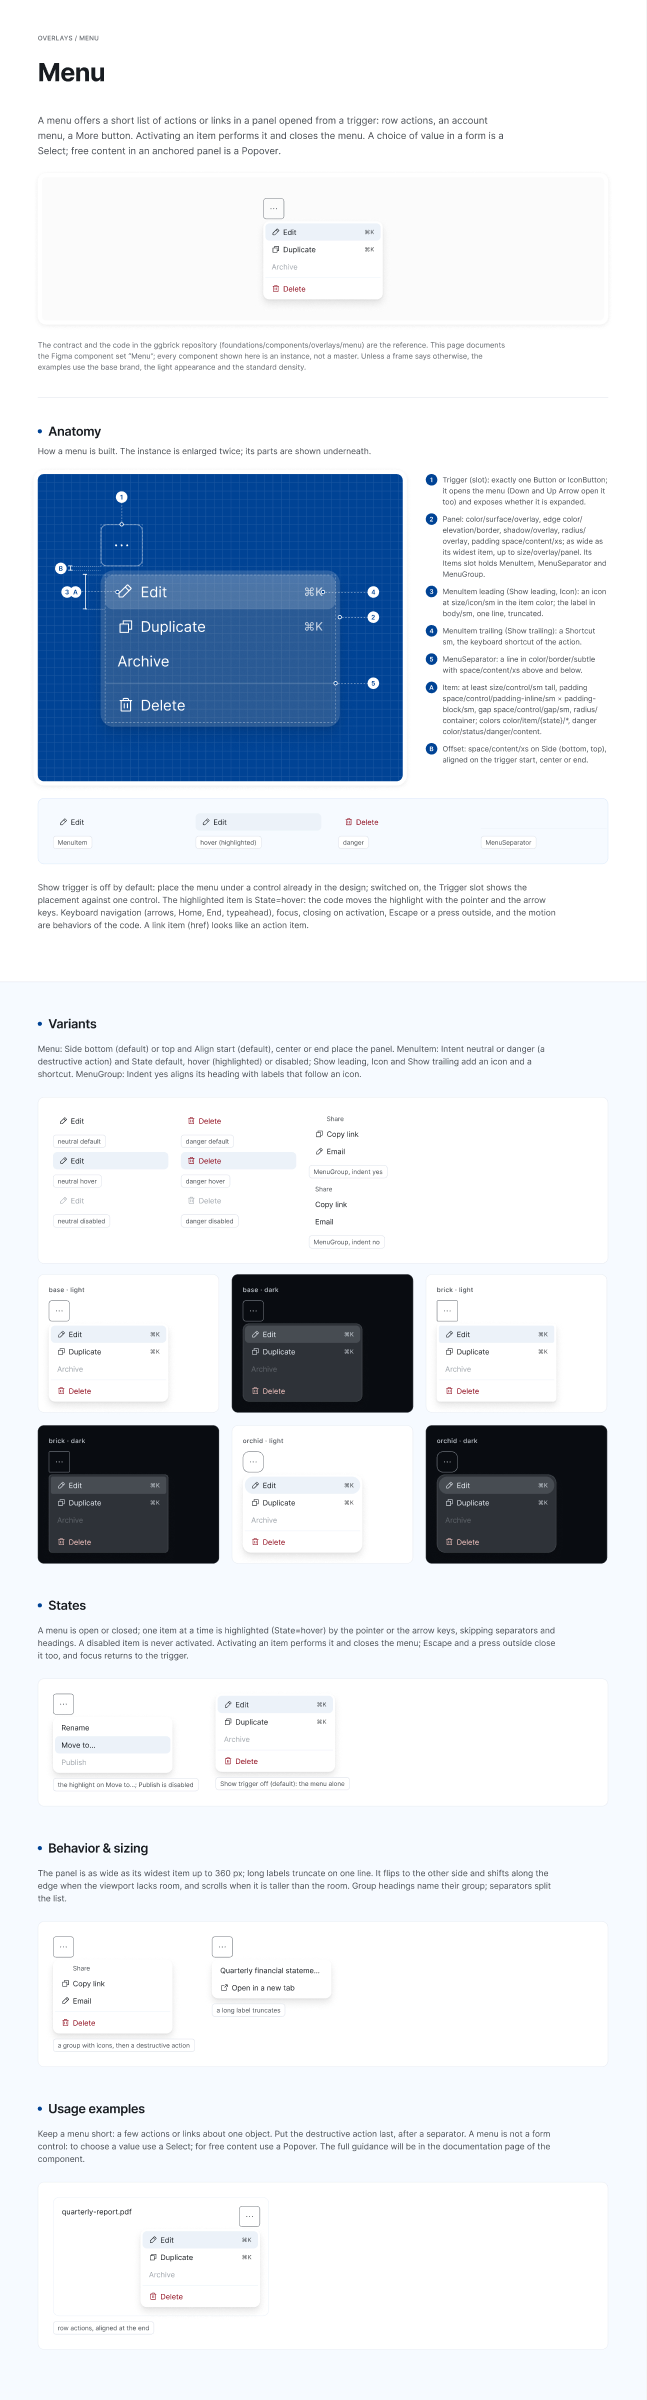
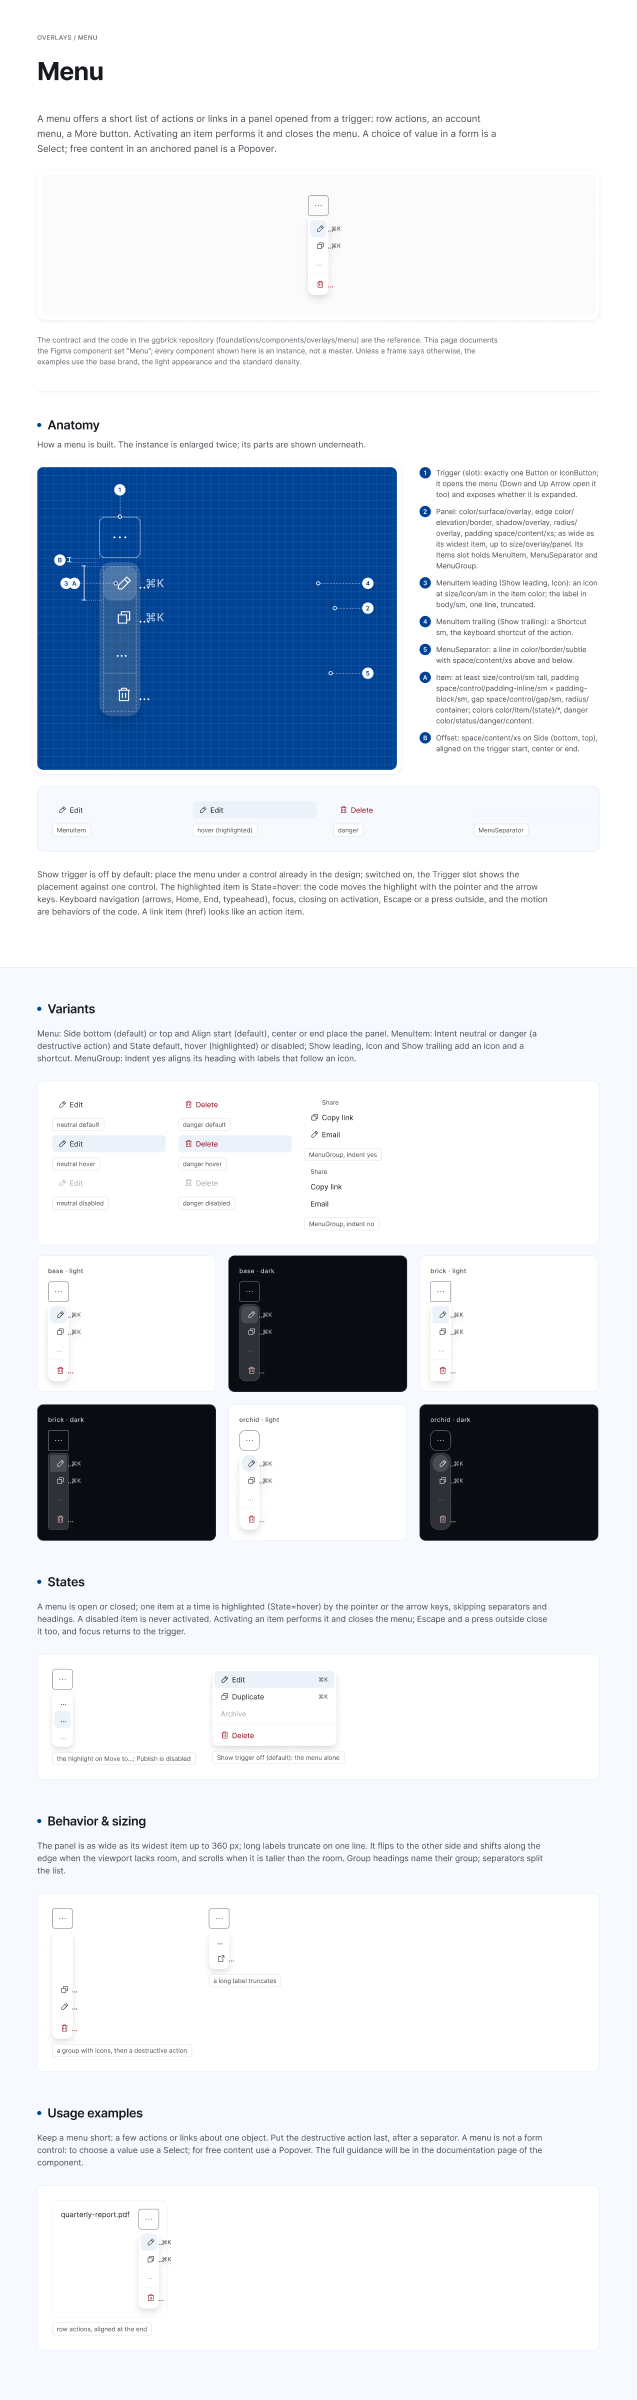
Figma: Menu width fixed (240 px, resizable)
Reported by the user: the Menu was 32 px wide once placed. Its items
filled a panel that hugged them, so it collapsed to its padding. The six
variants are now 240 px wide, the Panel and the Items slot fill them.
Parity hashes unchanged; 18 new checks that the items fill the panel.

Claude-Session: https://claude.ai/code/session_0156c543GZBnpgBmqmSNfDLB

diff --git a/authoring/adapters/figma/menu-master.plugin.js b/authoring/adapters/figma/menu-master.plugin.js
@@ -1,7 +1,8 @@
 // Menu master builder (use_figma body), 2026-11-03.
 // 2026-11-04 (user review of the Figma parity): the boolean Show trigger of Menu, off by default, shows its Trigger slot;
 // the public children are named Menu/Item, Menu/Separator and Menu/Group, so that the Assets panel groups them under
-// Menu (renamed in place; user decision at the gate, 2026-11-04). Their instance layers keep the code names.
+// Menu (renamed in place; user decision at the gate, 2026-11-04). Their instance layers keep the code names. The menu is
+// 240 px wide by default and resizable (it collapsed to 32 px, reported by the user on 2026-11-04; fixed in place).
 // On the Overlays library page (407:119), section Menu: MenuItem (Intent neutral, danger × State default, hover,
 // disabled; 6 variants), MenuSeparator, MenuGroup (Indent yes, no) and Menu (Side × Align, 6 variants).
 // MenuItem: a horizontal auto layout 240 wide, min height size/control/sm, padding space/control/padding-inline/sm ×
@@ -308,9 +309,14 @@ for (const side of ['bottom', 'top'])
     it('Archive', null, false, 'neutral', 'disabled');
     add(sep.createInstance());
     it('Delete', TRASH, false, 'danger');
-    s.counterAxisSizingMode = 'FIXED';
-    s.resize(220, s.height);
-    s.counterAxisSizingMode = 'AUTO';
+    // The items fill the panel, so the panel cannot hug them (a hugging frame whose children all fill collapses to
+    // its padding: the Menu was 32 px wide until the user reported it, 2026-11-04). The menu is 240 px wide by default,
+    // resizable on the instance; the Panel and the Items slot fill it.
+    c.counterAxisSizingMode = 'FIXED';
+    c.resize(240, c.height);
+    c.primaryAxisSizingMode = 'AUTO';
+    s.parent.layoutSizingHorizontal = 'FILL';
+    s.layoutSizingHorizontal = 'FILL';
     menus.push(c);
   }
 const menuSet = figma.combineAsVariants(menus, section);

diff --git a/authoring/adapters/figma/menu-parity.plugin.js b/authoring/adapters/figma/menu-parity.plugin.js
@@ -62,6 +62,10 @@ for (const b of ['base', 'brick', 'orchid'])
       const [edit, dup, arch, del] = panel
         .findOne((n) => n.type === 'SLOT')
         .children.filter((n) => n.name === 'MenuItem');
+      // The items fill the panel of a 240 px menu (it collapsed to 32 px until 2026-11-04).
+      checks++;
+      if (Math.abs(edit.width - (panel.width - 2 * (await res(panel, 'paddingLeft')))) > 0.51 || panel.width < 200)
+        bad.push(`${ctx} item width ${edit.width} in panel ${panel.width}`);
       const line = async (k, n) =>
         `${k}=${[await paint(n), await paint(n.findChild((x) => x.name === 'Label')), num(n.height, 1), '', ''].join(',')}`;
       const L = [

diff --git a/foundations/components/overlays/menu/figma-spec.md b/foundations/components/overlays/menu/figma-spec.md
@@ -6,7 +6,7 @@
 - Masters: **Menu** ([`437:795`](https://www.figma.com/design/TDPqojP4KvbWJlKSYc4zKC/GG.Bricks---Design-system?node-id=437-795)), 6 variants; **Menu/Item** (`437:343`, the code's MenuItem), 6 variants; **Menu/Separator** (`437:344`, MenuSeparator); **Menu/Group** (`437:401`, MenuGroup), 2 variants. Built by `authoring/adapters/figma/menu-master.plugin.js`.
 - Specification frame: **Menu — Specification** ([`463:533`](https://www.figma.com/design/TDPqojP4KvbWJlKSYc4zKC/GG.Bricks---Design-system?node-id=463-533)); built by `menu-spec.plugin.js` on `spec-lib.plugin.js`.
 - Reproduces: contract `foundations/components/overlays/menu/contract.json` (approved 2026-11-03 with the group alignment amendment) and the implementation approved on 2026-11-03 (`packages/svelte/src/components/menu`).
-- Node IDs: `reports/components/menu/figma/ledger.json`. Parity: `reports/components/menu/figma/parity.json` (60 records, 0 failures) plus 270 extra checks. Screenshots: `master-set.png`, `specification.png`, `blueprint-anatomy.png`.
+- Node IDs: `reports/components/menu/figma/ledger.json`. Parity: `reports/components/menu/figma/parity.json` (60 records, 0 failures) plus 288 extra checks. Screenshots: `master-set.png`, `specification.png`, `blueprint-anatomy.png`.
 - The library is not published (publication needs explicit authorization).
 
 ## Mapping from the contract
@@ -25,6 +25,8 @@
 | `open`, keyboard, typeahead, focus, motion, layer | Not drawn: behaviors of the code                                                                                          |
 
 ## Construction notes
+
+- **Width** (fixed on 2026-11-04 after a user report): the menu is 240 px wide by default and resizable on the instance; the Panel and the Items slot fill it, and the items fill the panel. Figma cannot make filling children as wide as the widest of them (a hugging panel whose items all fill collapses to its padding), so the code's rule, as wide as the widest item up to size.overlay.panel, becomes a width the designer sets.
 
 - **The trigger is optional** (user review of the Figma parity, 2026-11-04): the boolean **Show trigger**, off by default, shows the Trigger slot. A designer builds the interface first and places the menu over a control already in it; switched on, the slot shows the placement against one trigger. The placement checks of the parity switch it on.
 - **Menu/Item, Menu/Separator and Menu/Group** are published components: they are the public children of the contract (`item`, `separator`, `group`, MenuItem, MenuSeparator and MenuGroup in the code) that a designer drops into the Items slot. Their names group them under Menu in the Assets panel (user decision at the Figma parity gate, 2026-11-04; renamed in place, IDs unchanged). Their instance layers keep the code names (MenuItem…), since the specification helpers split layer paths on `/`.
